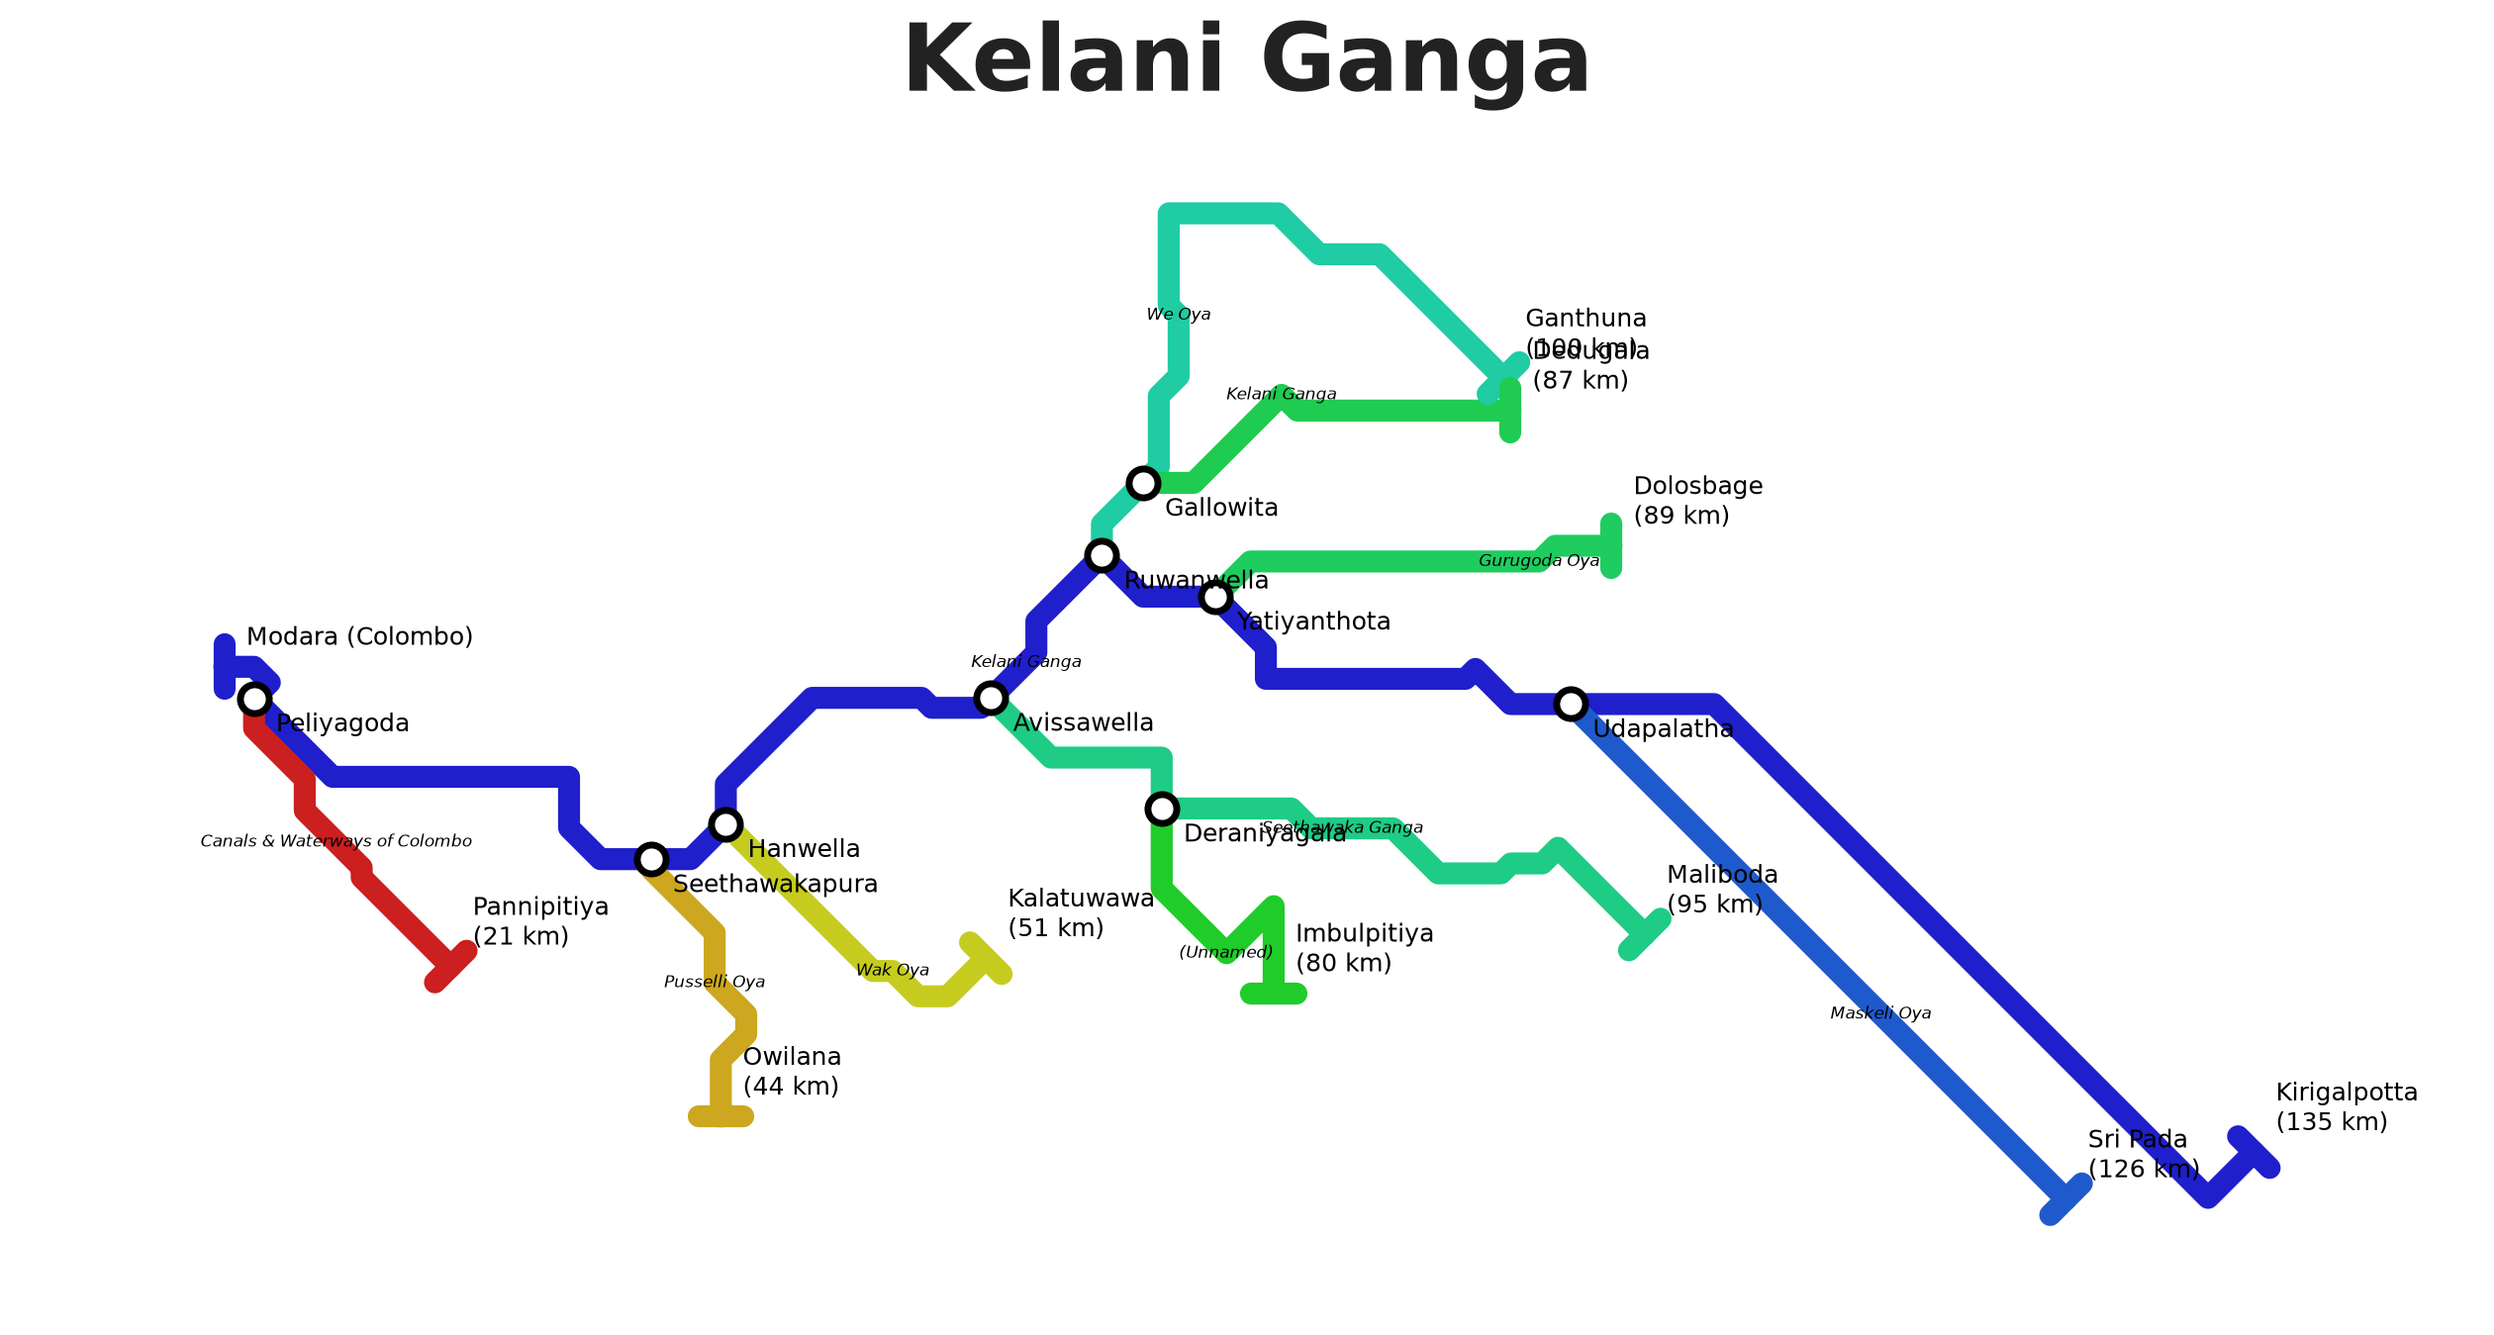
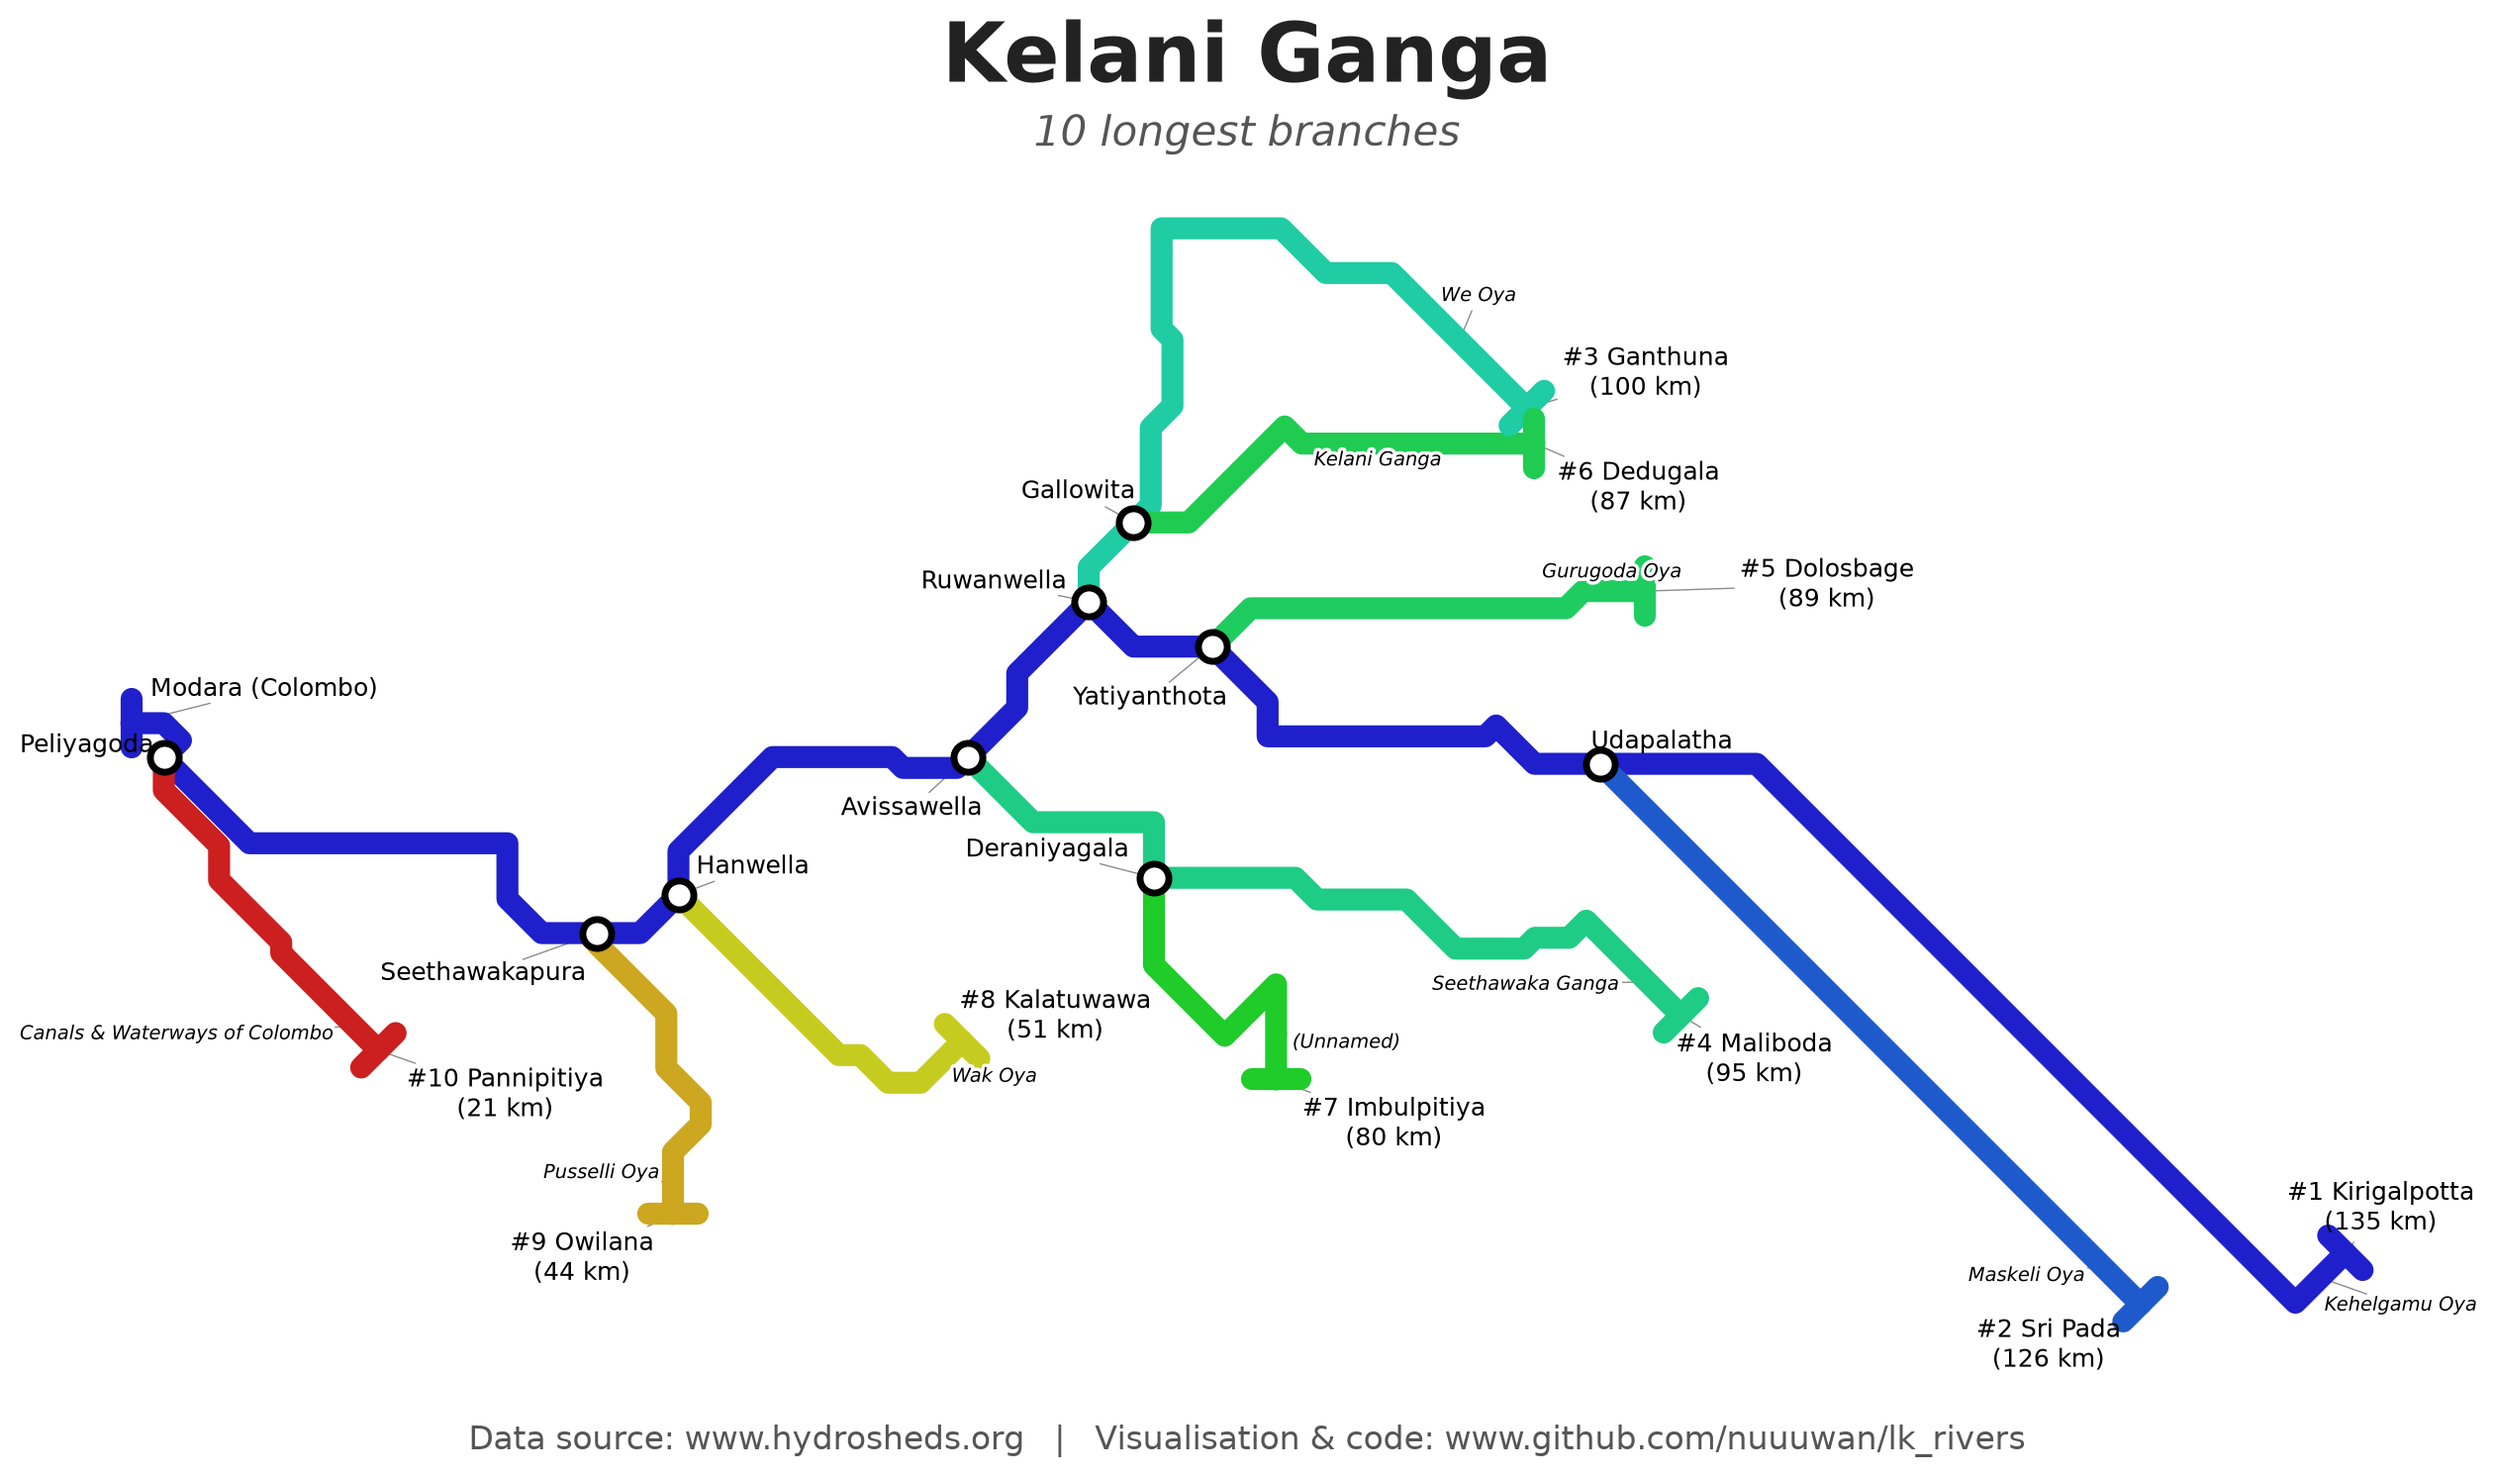
Implement code changes to enhance functionality and improve performance

Changed region(s): [[0.0, 0.0, 0.9905, 0.934], [0.1857, 0.9652, 0.8048, 0.9963], [0.2167, 0.8406, 0.2476, 0.8718]]

diff --git a/workflows/render_river_beck.py b/workflows/render_river_beck.py
@@ -16,6 +16,9 @@ from collections import defaultdict, deque
 from pathlib import Path
 
 import matplotlib.pyplot as plt
+import matplotlib.patheffects as pe
+import numpy as np
+from adjustText import adjust_text
 
 from utils_future import File, JSONFile, Log
 
@@ -278,16 +281,6 @@ def select_branches(branches, max_lines):
     return kept
 
 
-def branch_name(branch, node_to_hyriv):
-    """Name of a branch, if any of its segments has a known name."""
-    for node in branch["nodes"]:
-        hyriv = node_to_hyriv.get(node)
-        name = RIV_ID_TO_NAME.get(str(hyriv)) if hyriv is not None else None
-        if name:
-            return name
-    return None
-
-
 def dist_to_sea(node, parent, node_to_length):
     """Along-river distance in km from a node down to the mouth."""
     total = 0.0
@@ -346,7 +339,7 @@ def render(riv_id, output_path):
     kept_coord = {key: node_coord[key] for key in kept_nodes}
     pos, _edges = layout_octilinear(kept_adjacency, kept_coord, mouth_key)
 
-    fig, ax = plt.subplots(figsize=(16, 16))
+    fig, ax = plt.subplots(figsize=(16, 9))
     ax.set_facecolor("white")
 
     # Size line-end ticks relative to a typical edge length.
@@ -366,6 +359,14 @@ def render(riv_id, output_path):
     min_distance = min(distances)
     span_distance = (max(distances) - min_distance) or 1.0
 
+    # Rank branches by distance to the sea (longest = #1).
+    rank_of = {
+        idx: r + 1
+        for r, idx in enumerate(
+            sorted(range(len(kept)), key=lambda i: distances[i], reverse=True)
+        )
+    }
+
     # Location label (name or lat,lng) for a place; opens Maps if unnamed.
     opened = set()
     added_keys = []
@@ -383,6 +384,10 @@ def render(riv_id, output_path):
             opened.add(key)
             webbrowser.open(f"https://www.google.com/maps?q={lat},{lon}")
         return name
+
+    # Collected label texts and points (lines + stations) to push labels off.
+    texts = []
+    avoid_x, avoid_y = [], []
 
     for index, branch in enumerate(kept):
         color = branch_color((distances[index] - min_distance) / span_distance)
@@ -410,6 +415,14 @@ def render(riv_id, output_path):
             zorder=2,
         )
 
+        # Sample the line so labels can be pushed clear of it later.
+        for (x0, y0), (x1, y1) in zip(points, points[1:]):
+            steps = max(
+                2, int(math.hypot(x1 - x0, y1 - y0) / (tick_half * 0.5))
+            )
+            avoid_x.extend(np.linspace(x0, x1, steps))
+            avoid_y.extend(np.linspace(y0, y1, steps))
+
         # Termination tick at the upstream source of each branch.
         source = branch["nodes"][-1]
         source_neighbour = (
@@ -424,31 +437,35 @@ def render(riv_id, output_path):
         # Termination label: place name / lat,lng plus distance from the sea.
         distance = distances[index]
         sx, sy = pos[source]
-        ax.annotate(
-            f"{place_label(node_coord[source])}\n({distance:.0f} km)",
-            (sx, sy),
-            textcoords="offset points",
-            xytext=(8, 8),
+        avoid_x.append(sx)
+        avoid_y.append(sy)
+        texts.append(ax.text(
+            sx, sy,
+            f"#{rank_of[index]} {place_label(node_coord[source])}"
+            f"\n({distance:.0f} km)",
             fontsize=9,
-            color="black",
-            zorder=6,
-        )
-
-        # Branch name, halfway up the branch, in a small italic font.
-        branch_ident = (
-            branch_name(branch, node_to_hyriv)
-            or str(node_to_hyriv.get(source))
-        )
-        ax.annotate(
-            branch_ident,
-            points[len(points) // 2],
-            fontsize=6,
-            fontstyle="italic",
             color="black",
             ha="center",
             va="center",
             zorder=6,
-        )
+        ))
+
+        # Branch name, on the midpoint of its last (source) segment.
+        source_id = node_to_hyriv.get(source)
+        branch_ident = RIV_ID_TO_NAME.get(str(source_id)) or str(source_id)
+        (nx, ny), (ex, ey) = pos[source_neighbour], pos[source]
+        bx, by = (nx + ex) / 2, (ny + ey) / 2
+        texts.append(ax.text(
+            bx, by,
+            branch_ident,
+            fontsize=7,
+            fontstyle="italic",
+            color="black",
+            ha="center",
+            va="center",
+            zorder=7,
+            path_effects=[pe.withStroke(linewidth=2.5, foreground="white")],
+        ))
 
     # Junction symbols: white circle with a black edge at every confluence.
     for node in kept_nodes:
@@ -462,15 +479,17 @@ def render(riv_id, output_path):
                 linewidth=2.5,
                 zorder=5,
             )
-            ax.annotate(
+            avoid_x.append(jx)
+            avoid_y.append(jy)
+            texts.append(ax.text(
+                jx, jy,
                 place_label(node_coord[node]),
-                (jx, jy),
-                textcoords="offset points",
-                xytext=(8, -12),
                 fontsize=9,
                 color="black",
+                ha="center",
+                va="center",
                 zorder=6,
-            )
+            ))
 
     # Mouth terminus: a tick plus the sea outlet's place name / lat,lng.
     mouth_neighbour = next(iter(kept_adjacency[mouth_key]))
@@ -478,15 +497,17 @@ def render(riv_id, output_path):
         ax, pos[mouth_key], pos[mouth_neighbour], branch_color(1.0), tick_half
     )
     mx, my = pos[mouth_key]
-    ax.annotate(
+    avoid_x.append(mx)
+    avoid_y.append(my)
+    texts.append(ax.text(
+        mx, my,
         place_label(node_coord[mouth_key]),
-        (mx, my),
-        textcoords="offset points",
-        xytext=(8, 8),
         fontsize=9,
         color="black",
+        ha="center",
+        va="center",
         zorder=6,
-    )
+    ))
 
     # Persist any newly-seen spots so they can be named later.
     if added_keys:
@@ -497,8 +518,39 @@ def render(riv_id, output_path):
 
     ax.set_aspect("equal")
     ax.axis("off")
-    ax.margins(0.1)
-    ax.set_title(river_name, fontsize=34, fontweight="bold", color="#222222")
+    ax.margins(0.05)
+
+    # Titles and footer hug the diagram (axes box shrinks with equal aspect).
+    ax.annotate(
+        river_name, (0.5, 1.06), xycoords="axes fraction",
+        ha="center", va="bottom",
+        fontsize=30, fontweight="bold", color="#222222",
+    )
+    ax.annotate(
+        f"{len(kept)} longest branches", (0.5, 1.015), xycoords="axes fraction",
+        ha="center", va="bottom",
+        fontsize=15, fontstyle="italic", color="#555555",
+    )
+    ax.annotate(
+        "Data source: www.hydrosheds.org   |   "
+        "Visualisation & code: www.github.com/nuuuwan/lk_rivers",
+        (0.5, -0.04), xycoords="axes fraction",
+        ha="center", va="top",
+        fontsize=12, color="#555555",
+    )
+
+    # Nudge labels so they avoid each other and the river lines.
+    adjust_text(
+        texts,
+        x=avoid_x,
+        y=avoid_y,
+        ax=ax,
+        expand=(1.3, 1.5),
+        force_text=(0.5, 0.6),
+        force_static=(0.25, 0.3),
+        arrowprops=dict(arrowstyle="-", color="0.55", lw=0.5),
+        min_arrow_len=6,
+    )
 
     fig.savefig(output_path, dpi=200, bbox_inches="tight", facecolor="white")
     plt.close(fig)
